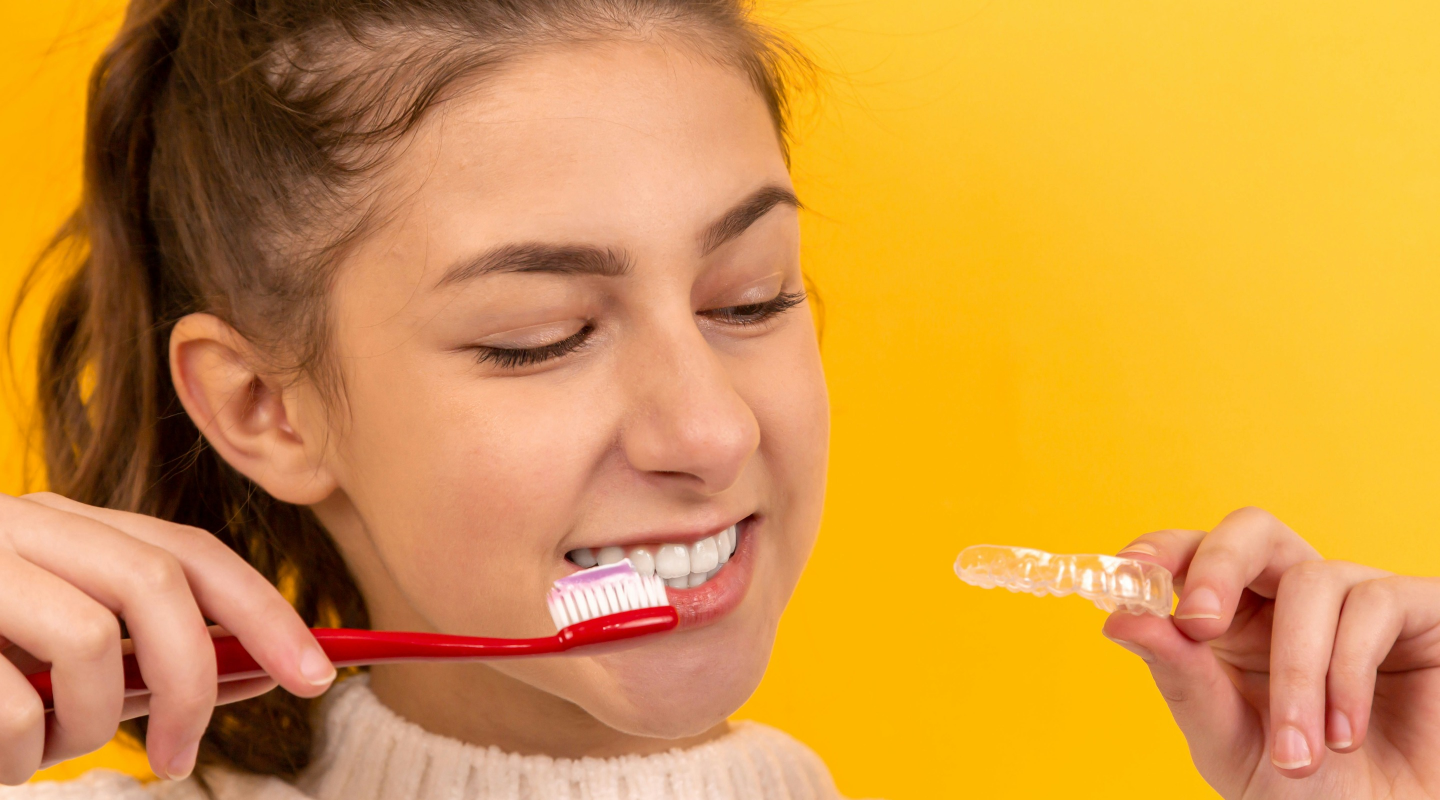
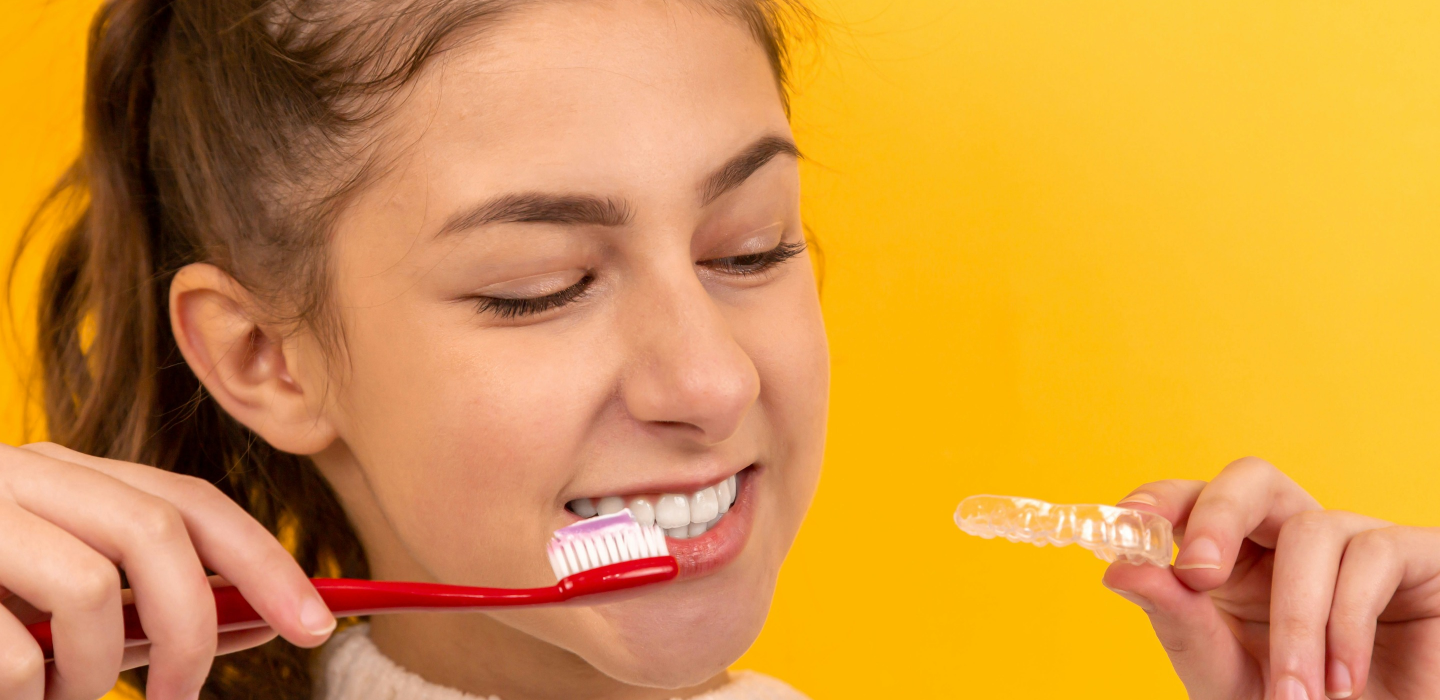
index.html 'main' slide done

diff --git a/www/js/index.js b/www/js/index.js
@@ -1,14 +1,12 @@
 document.addEventListener("DOMContentLoaded", function() {
     let slideIndex = 0;
     const slides = document.querySelector('.slides');
-    const dots = document.querySelectorAll('.dots span');
-    const totalSlides = dots.length;
+    const totalSlides = document.querySelectorAll('.slides img').length; // 슬라이드 이미지의 개수
 
     function showSlides() {
         slideIndex = (slideIndex + 1) % totalSlides; // 슬라이드 순환
         updateSlidePosition();
-        updateDots();
-        setTimeout(showSlides, 3000); // 3초마다 슬라이드 전환
+        setTimeout(showSlides, 5000); // 5초마다 슬라이드 전환
     }
 
     function updateSlidePosition() {
@@ -16,28 +14,6 @@ document.addEventListener("DOMContentLoaded", function() {
         slides.style.transform = `translateX(${-slideWidth * slideIndex}%)`;
     }
 
-    function updateDots() {
-        dots.forEach((dot, index) => {
-            dot.classList.remove('active');
-            if (index === slideIndex) {
-                dot.classList.add('active');
-            }
-        });
-    }
-
-    function currentSlide(n) {
-        clearTimeout(autoSlideTimer); // 자동 전환 타이머 초기화
-        slideIndex = n;
-        updateSlidePosition();
-        updateDots();
-        autoSlideTimer = setTimeout(showSlides, 3000); // 다시 자동 전환 시작
-    }
-
-    dots.forEach((dot, index) => {
-        dot.addEventListener('click', function() {
-            currentSlide(index);
-        });
-    });
-
-    let autoSlideTimer = setTimeout(showSlides, 3000); // 초기 슬라이드 전환 시작
+    // 초기 슬라이드 전환 시작
+    setTimeout(showSlides, 5000);
 });

diff --git a/www/style/index.scss b/www/style/index.scss
@@ -4,7 +4,7 @@ main {
         margin: 0 auto;
         overflow: hidden;
         // max-width: 100%;
-        height: 800px;
+        height: 100%;
 
         .slides {
             display: flex;
@@ -16,24 +16,5 @@ main {
                 flex-shrink: 0;
             }
         }
-    }
-    
-    .dots {
-        text-align: center;
-        padding: 10px;
-
-        span {
-            height: 15px;
-            width: 15px;
-            margin: 0 5px;
-            background-color: #bbb;
-            border-radius: 50%;
-            display: inline-block;
-            cursor: pointer;
-        }
-    }
-    
-    .active {
-        background-color: #717171;
     }
 }

diff --git a/www/style/index.css b/www/style/index.css
@@ -2,7 +2,7 @@ main .slider {
   position: relative;
   margin: 0 auto;
   overflow: hidden;
-  height: 800px;
+  height: 100%;
 }
 main .slider .slides {
   display: flex;
@@ -12,20 +12,4 @@ main .slider .slides {
 main .slider .slides img {
   width: 100%;
   flex-shrink: 0;
-}
-main .dots {
-  text-align: center;
-  padding: 10px;
-}
-main .dots span {
-  height: 15px;
-  width: 15px;
-  margin: 0 5px;
-  background-color: #bbb;
-  border-radius: 50%;
-  display: inline-block;
-  cursor: pointer;
-}
-main .active {
-  background-color: #717171;
 }/*# sourceMappingURL=index.css.map */

diff --git a/www/index.html b/www/index.html
@@ -23,12 +23,6 @@
                 <img src="img/slide3.png" alt="">
             </div>
         </div>
-
-        <div class="dots">
-            <span class="dot" onclick="currentSlide(1)"></span>
-            <span class="dot" onclick="currentSlide(2)"></span>
-            <span class="dot" onclick="currentSlide(3)"></span>
-        </div>
     </main>
 </body>
 </html>
